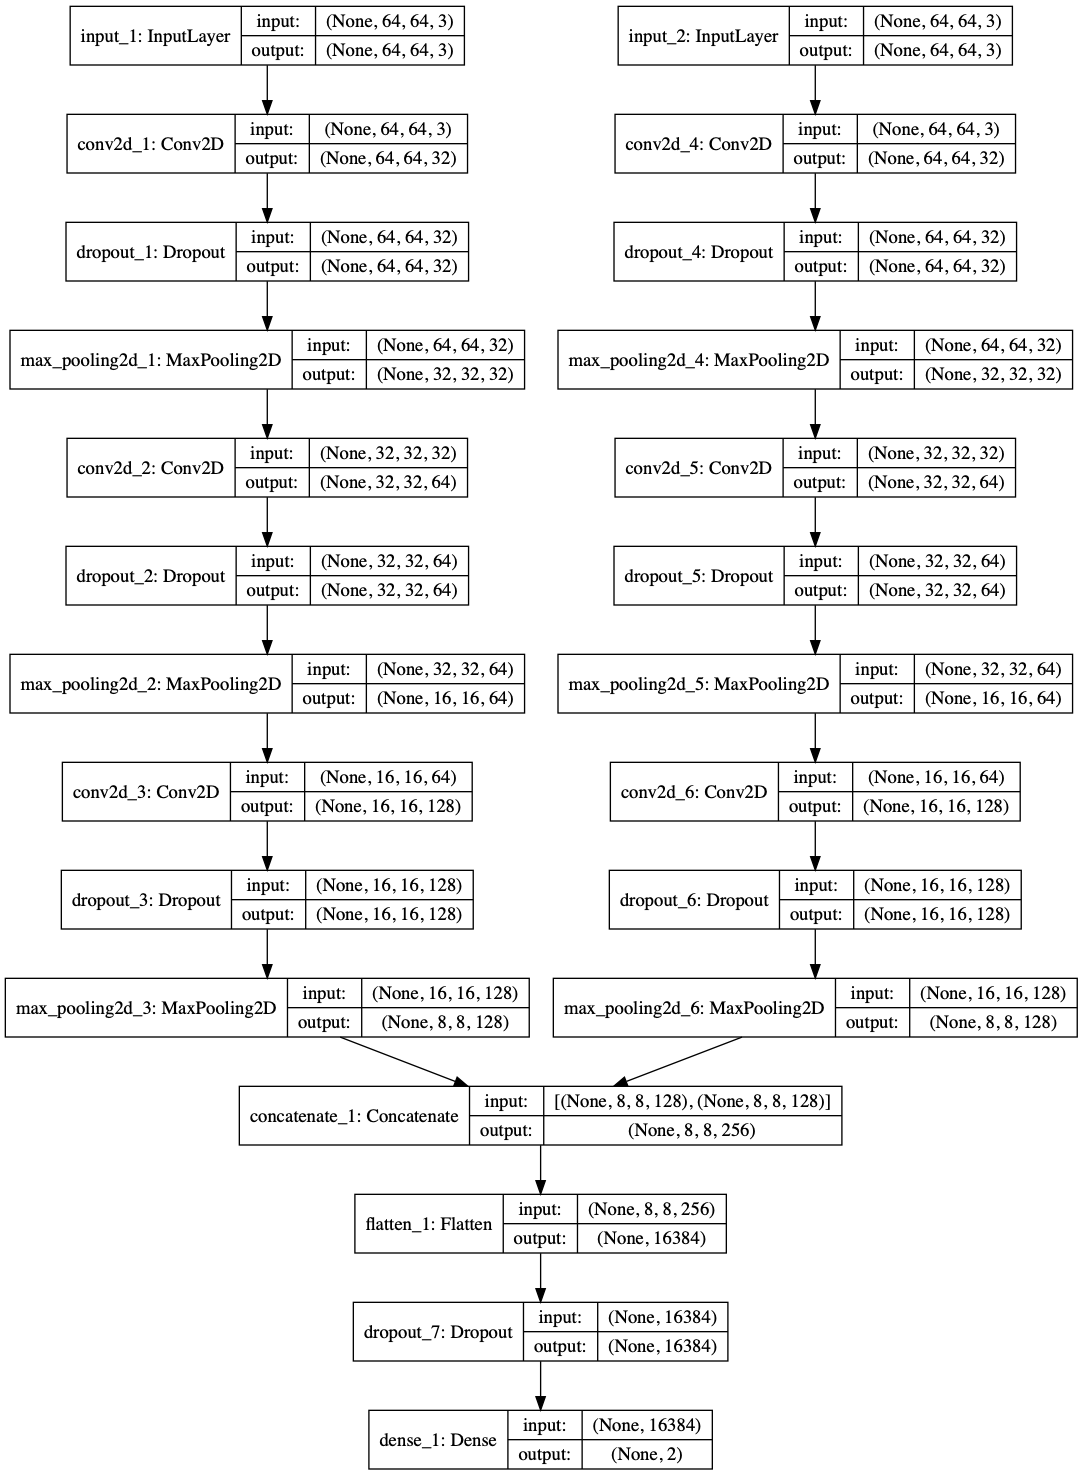
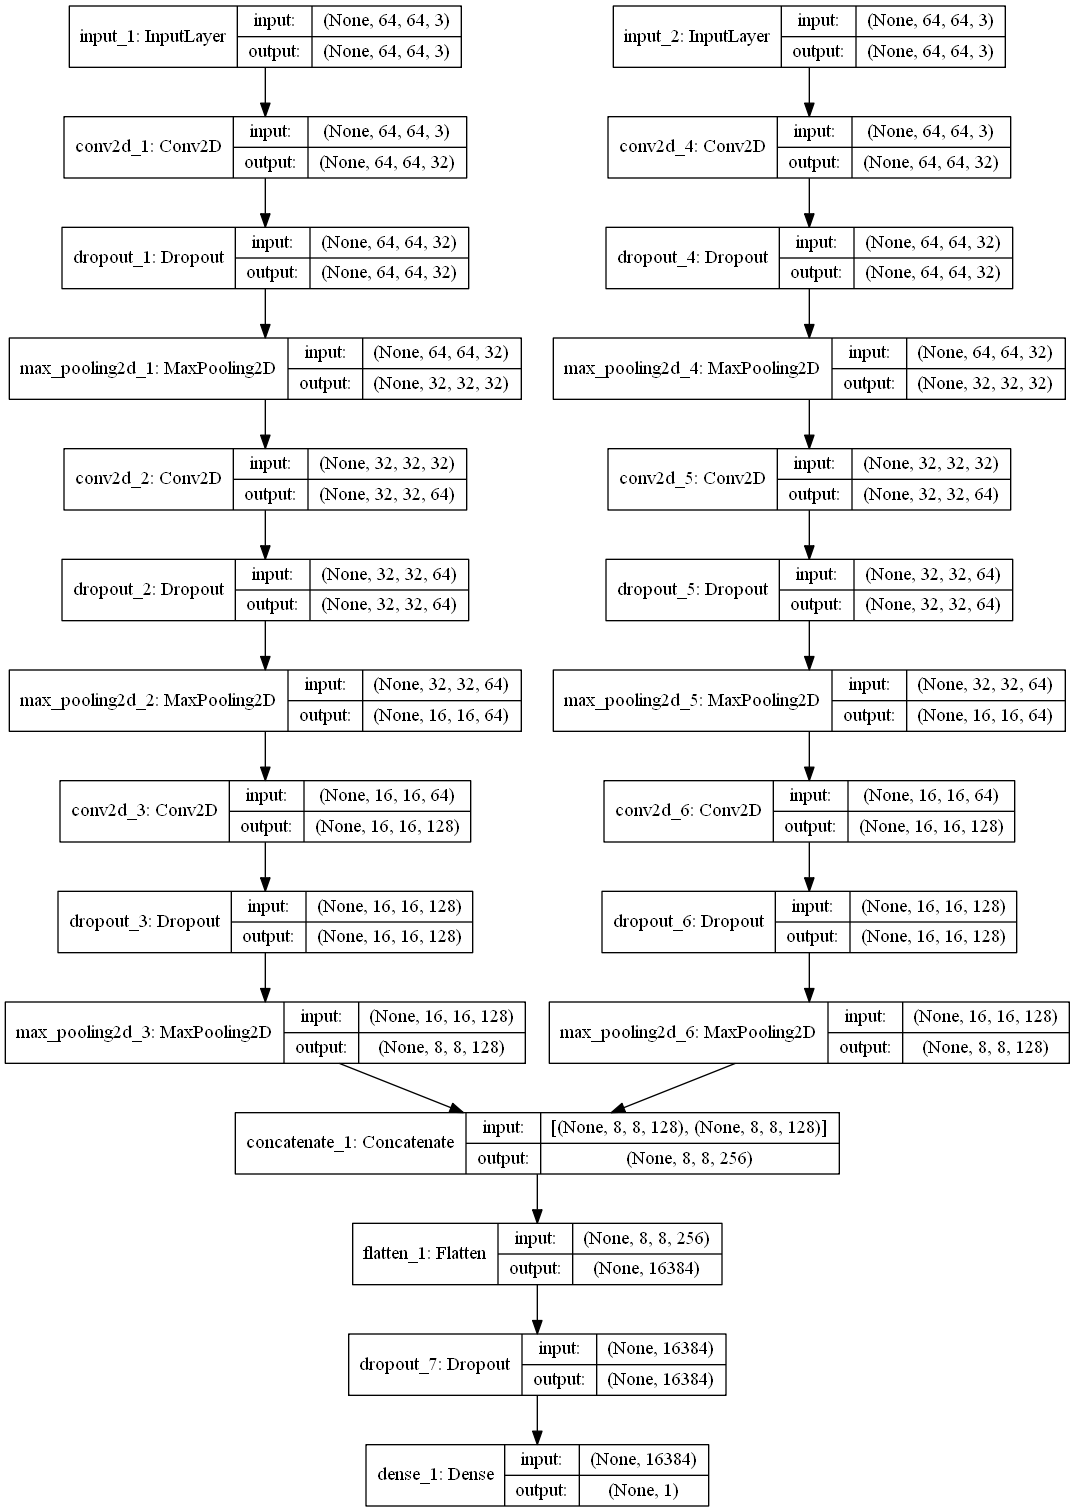
final push

diff --git a/training.py b/training.py
@@ -41,11 +41,10 @@ pickle_in3 = open("notwaldo.pickle","rb")
 notwaldo = pickle.load(pickle_in3)
 
 oldwaldo = np.concatenate((oldwaldo, waldo[0:len(oldwaldo)]), axis = 0)
-notwaldo = notwaldo[0:len(oldwaldo)] 
+notwaldo = notwaldo[0:len(oldwaldo)]
 
-
-data = waldo + notwaldo
-data = np.concatenate((waldo, notwaldo),axis=0)
+#data = waldo + notwaldo
+data = np.concatenate((oldwaldo, notwaldo),axis=0)
 np.random.shuffle(data)
 
 X_train = []
@@ -54,15 +53,18 @@ for i in data:
 	if(i[1] == 1):
 		X_train.append(i[0][...,::-1])
 	else:
-		X_train.append(i[0]) 
-	Y_train.append(i[1])
+		X_train.append(i[0])
+	if (i[1] == 0):
+		Y_train.append(1)
+	else:
+		Y_train.append(0)
 
 
 X_train = np.array(X_train)
 
 
 X_train = np.array(X_train).reshape(-1, 64, 64, 3)
-X_train = X_train.astype('float32') / 255 
+X_train = X_train.astype('float32') / 255
 Y_train = np.asarray(Y_train)
 X = X_train
 Y = Y_train
@@ -71,12 +73,11 @@ Y = Y_train
 X_train, X_test, Y_train, Y_test = train_test_split(X, Y, test_size=0.25)
 
 Y_copy = Y_test.copy()
-Y_train = to_categorical(Y_train)
-Y_test = to_categorical(Y_test)
+
 
 model = Sequential()
 
-num_classes = 2
+num_classes = 1
 input_shape = (64,64,3)
 
 model = Sequential()
@@ -121,12 +122,12 @@ for i in range(3):
 
 # merge left and right branches outputs
 y = concatenate([x, y])
-# feature maps to vector before connecting to Dense 
+# feature maps to vector before connecting to Dense
 y = Flatten()(y)
 y = Dropout(dropout)(y)
-outputs = Dense(2, activation='softmax')(y)
+outputs = Dense(1, activation='sigmoid')(y)
 
-# build the model in functional API
+# build the modela in functional API
 model = Model([left_inputs, right_inputs], outputs)
 # verify the model using graph
 plot_model(model, to_file='cnn-y-network.png', show_shapes=True)
@@ -145,16 +146,34 @@ model_json = model.to_json()
 with open("model.json", "w") as json_file:
     json_file.write(model_json)
 
-model.fit([X_train, X_train], Y_train, validation_data=([X_test, X_test], Y_test), epochs=50, batch_size = 64, callbacks = [checkpoint] )
+print(Y_test)
+
+history = model.fit([X_train, X_train], Y_train, validation_data=([X_test, X_test], Y_test), epochs=12, batch_size = 64, callbacks = [checkpoint] )
+
+accuracy = history.history['accuracy']
+val_accuracy = history.history['val_accuracy']
+
+fig = plt.figure()
+ax = fig.add_axes([0.1,0.1,0.8,0.8])
+ax.plot(range(len(accuracy)), accuracy, color="black")
+ax.plot(range(len(val_accuracy)), val_accuracy, color="red")
+ax.set_xlabel("Epoch")
+ax.set_ylabel("Accuracy")
+
+plt.show()
+
+print(accuracy)
 
 print("ran model")
 
-predicted_classes = model.predict_classes([X_test, X_test])
+exit()
+
+#predicted_classes = model.predict_classes([X_test, X_test])
 
 
 model.save_weights("model.h5")
 print("Saved model to disk")
- 
+
 
 confusion_matrix = pd.crosstab(Y_copy, predicted_classes, rownames=['Actual'], colnames=['Predicted'])
 

diff --git a/heatmap.py b/heatmap.py
@@ -3,8 +3,8 @@ import os
 import matplotlib.pyplot as plt
 import numpy as np
 from keras.models import model_from_json
-import image_slicer
 import random
+
 IMAGE_SIZE = 64
 STRIDE = 16
 
@@ -18,7 +18,7 @@ model.compile(optimizer='adam', loss='categorical_crossentropy', metrics=['accur
 confarr = []
 for i in a:
     arr = np.array(i.image.convert('RGB')) / 255
-    arr = cv2.resize(arr, (64,64)) 
+    arr = cv2.resize(arr, (64,64))
     plt.imshow(arr)
     plt.show()
     confidence = model.predict_proba(np.array([arr]))
@@ -36,7 +36,7 @@ for i, e in enumerate(confarr):
 
 #height, width, channel
 
-im = cv2.imread("/Users/joshleichty/Documents/images/17.jpg") / 255
+im = cv2.imread("C:/Users/luked/Documents/eclipse projects/images/30.jpg") / 255
 
 im = im[:,:,::-1]
 image = im
@@ -49,7 +49,6 @@ height_of_hmap = height-IMAGE_SIZE
 width_of_hmap = width-IMAGE_SIZE
 #contains 2D map of each image slice
 #index 1 gives the row of the
-hmap = []
 mask = np.zeros((image.shape[0],image.shape[1]))
 counter = 0
 print("Starting slicing")
@@ -59,7 +58,6 @@ for y in range(height_of_hmap):
         counter += 1
         print("{0} / {1}".format(counter, (int(height_of_hmap / STRIDE))))
     if (y % STRIDE == 0):
-        hmap_row = []
         for x in range(width_of_hmap):
             if (x % STRIDE == 0):
                 slice_x = image[y:y+IMAGE_SIZE,x:x+IMAGE_SIZE]
@@ -70,26 +68,11 @@ for y in range(height_of_hmap):
                 if np.count_nonzero(mask[y:y+IMAGE_SIZE,x:x+IMAGE_SIZE]) == 0:
                     mask[y:y+IMAGE_SIZE,x:x+IMAGE_SIZE] = confidence
                 else:
-                    mask[y:y+IMAGE_SIZE,x:x+IMAGE_SIZE] = (mask[y:y+IMAGE_SIZE,x:x+IMAGE_SIZE] + confidence) / 2 
+                    mask[y:y+IMAGE_SIZE,x:x+IMAGE_SIZE] = (mask[y:y+IMAGE_SIZE,x:x+IMAGE_SIZE] + confidence)
                 if confidence > .5:
                     good_imgs.append([confidence, slice_x])
-                hmap_row.append(confidence)
-        hmap.append(np.array(hmap_row))
 
 
 plt.imshow(image)
 plt.imshow(mask,alpha=.5)
 plt.show()
-
-'''
-hmap = np.array(hmap)
-
-for i in sorted(good_imgs)[::-1]:
-    plt.imshow(i[1])
-    plt.show()
-print("Done, starting model prediction")
-
-print(hmap)
-
-plt.imshow(hmap)
-plt.show()'''
